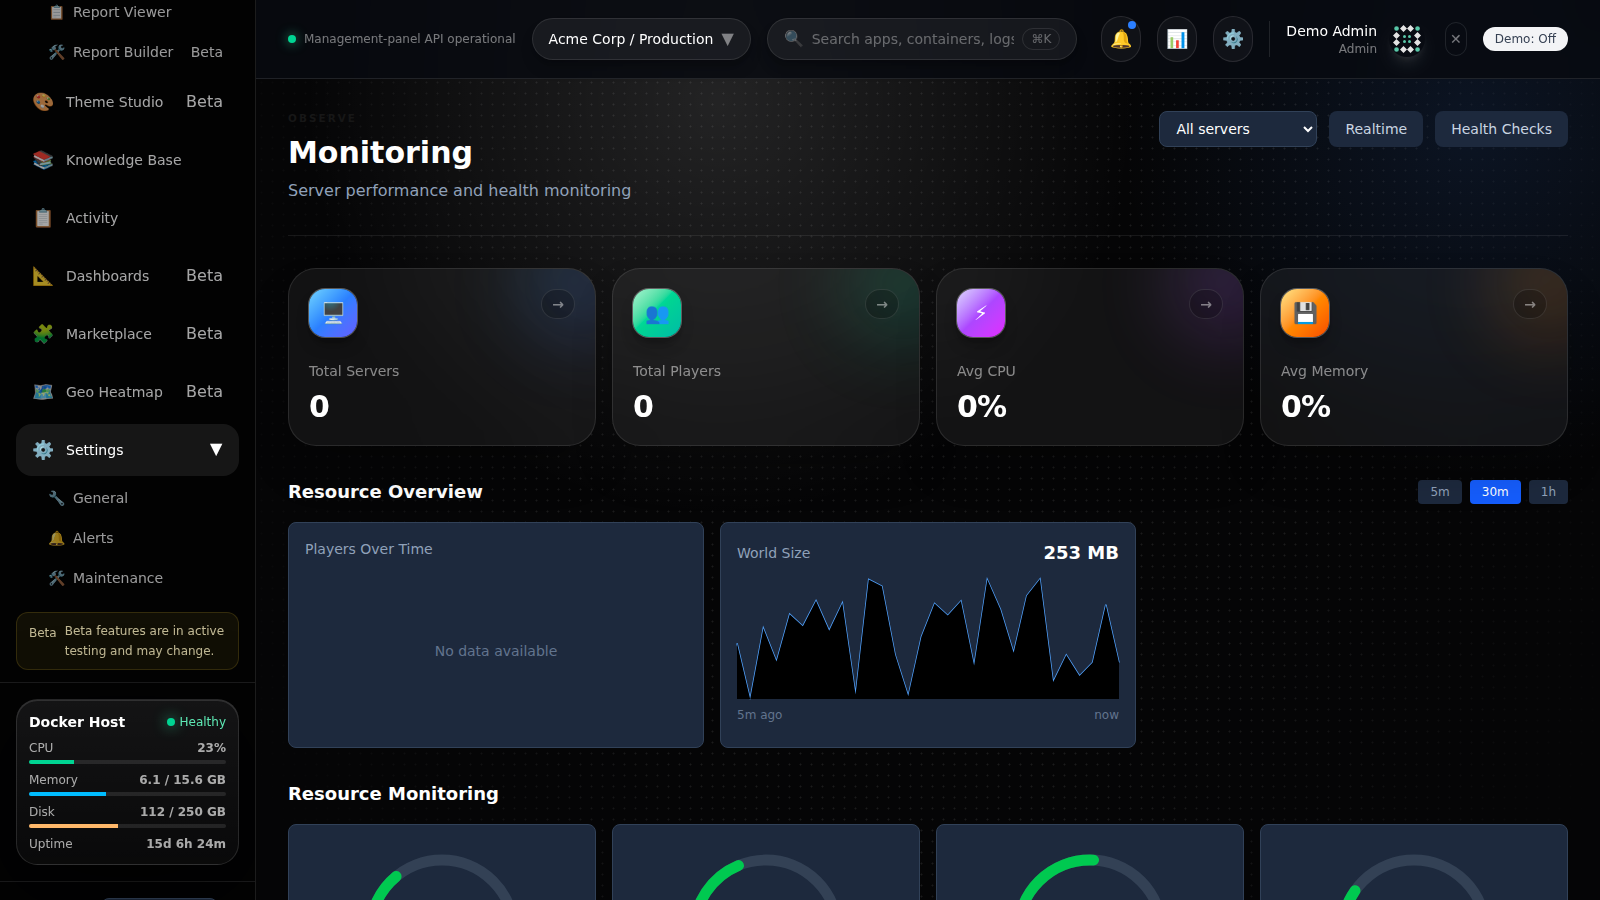
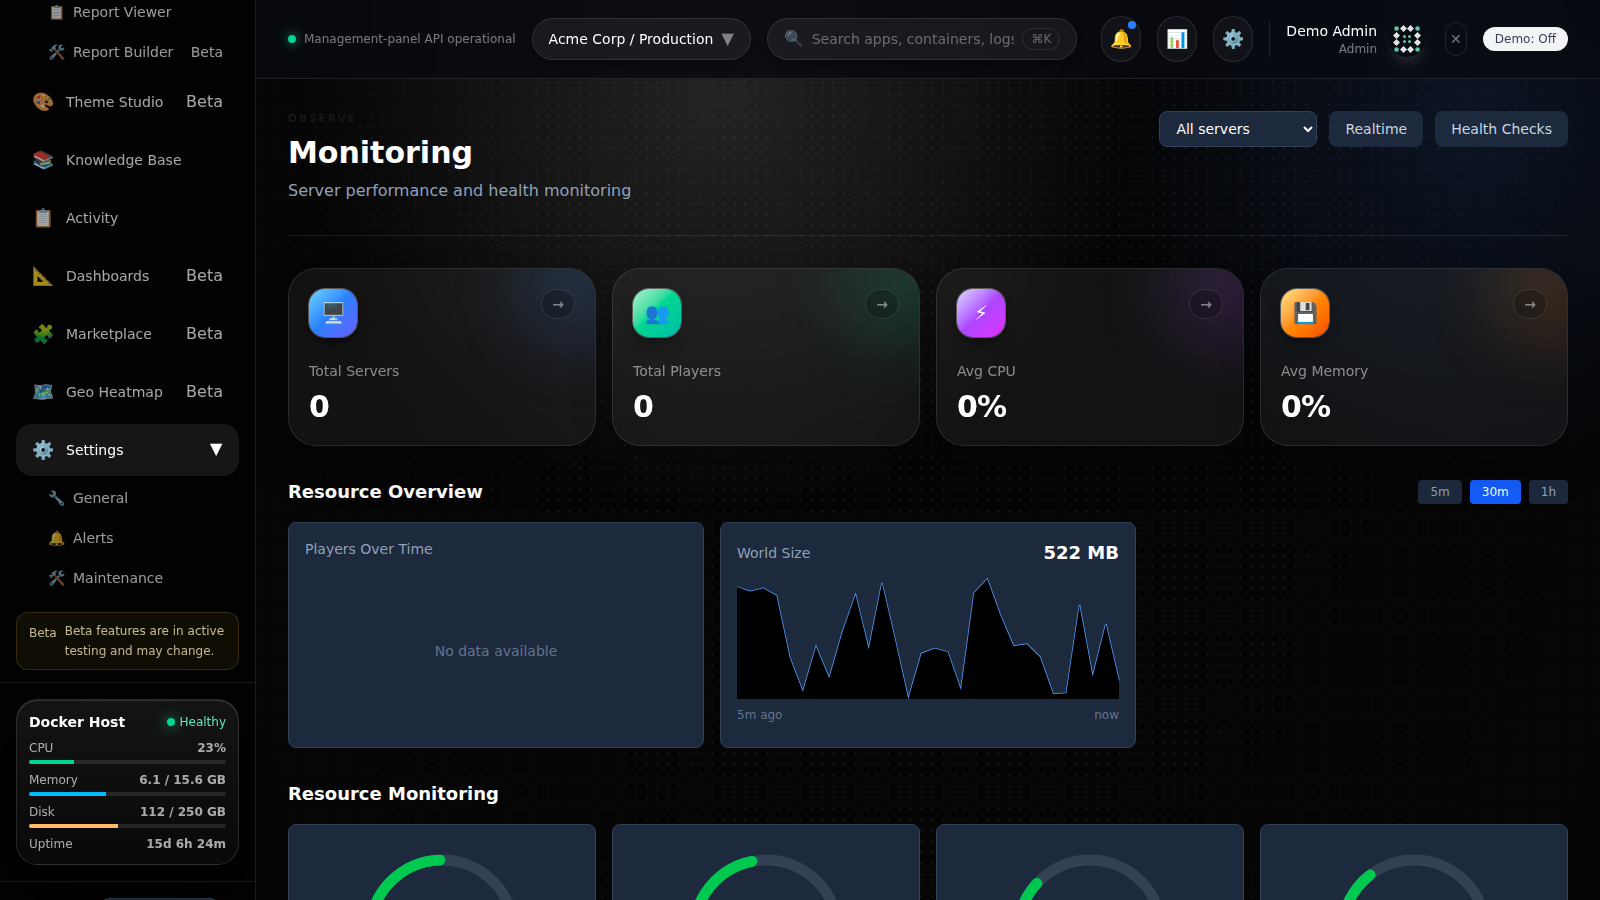
fun(welle-2): Visualisierung die es so nicht gibt (10 Features, neue … (#472)
* fun(welle-2): Visualisierung die es so nicht gibt (10 Features, neue Dateien only)

* docs(screenshots): refresh panel captures [skip ci]

* fixed merge issue

* docs(screenshots): refresh panel captures [skip ci]

---------

diff --git a/services/management-panel/src/fun/wave2.ts b/services/management-panel/src/fun/wave2.ts
@@ -1,0 +1,23 @@
+// Welle 2: Widget-Deskriptoren (reine Daten, kein JSX -> build-sicher).
+
+export interface FunWidget {
+  key: string;
+  title: string;
+  endpoint: string;
+  flag: string;
+}
+
+export const WAVE2_WIDGETS: FunWidget[] = [
+  { key: "sternenkarte", title: "Flotte als Sternenkarte", endpoint: "/api/fun/sternbild", flag: "fun.welle2.sternenkarte" },
+  { key: "waermebild", title: "Wärmebild-Modus", endpoint: "/api/fun/waermebild", flag: "fun.welle2.waermebild" },
+  { key: "aquarium", title: "Aquarium-Ansicht", endpoint: "/api/fun/aquarium", flag: "fun.welle2.aquarium" },
+  { key: "metroplan", title: "Metroplan der Deployments", endpoint: "/api/fun/metroplan", flag: "fun.welle2.metroplan" },
+  { key: "latenz-wetterkarte", title: "Wetterkarte der Latenz", endpoint: "/api/fun/latenz", flag: "fun.welle2.latenz" },
+  { key: "schallplatte", title: "Schallplatten-Ansicht", endpoint: "/api/fun/vinyl", flag: "fun.welle2.vinyl" },
+  { key: "morse-status", title: "Morsecode-Statuslinie", endpoint: "/api/fun/morse", flag: "fun.welle2.morse" },
+  { key: "fleet-wrapped", title: "Fleet Wrapped", endpoint: "/api/fun/wrapped", flag: "fun.welle2.wrapped" },
+];
+
+export const WAVE2_FLAGS: Record<string, boolean> = Object.fromEntries(
+  WAVE2_WIDGETS.map((w) => [w.flag, false]),
+);

diff --git a/services/orchestrator-agent/fun_wave2.py b/services/orchestrator-agent/fun_wave2.py
@@ -1,0 +1,94 @@
+"""Welle 2: Visualisierung, die es so nicht gibt (Features 11-20).
+
+Pure descriptor builders: frontend renders, backend only computes data.
+Optional aiohttp wiring at the bottom.
+"""
+
+import hashlib
+import math
+
+WAVE = 2
+FEATURES = [
+    "sternenkarte",
+    "waermebild",
+    "aquarium",
+    "metroplan",
+    "latenz-wetterkarte",
+    "pacman-health",
+    "schallplatte",
+    "lego-bauplan",
+    "morse-status",
+    "fleet-wrapped",
+]
+
+
+def sternbild(services: list, deps: list) -> dict:
+    """Feature 11: services as constellations."""
+    stars = [{"id": s, "x": (int(hashlib.sha256(s.encode()).hexdigest()[:4], 16) % 1000) / 10,
+              "y": (int(hashlib.sha256(s.encode()).hexdigest()[4:8], 16) % 1000) / 10}
+             for s in services]
+    return {"stars": stars, "lines": deps}
+
+
+def waermebild(cpu_by_service: dict) -> dict:
+    """Feature 12: thermal color ramp per service."""
+    def color(cpu: float) -> str:
+        stops = [(0, "blau"), (50, "gruen"), (75, "gelb"), (90, "rot")]
+        return next((c for t, c in reversed(stops) if cpu >= t), "blau")
+    return {s: color(c) for s, c in cpu_by_service.items()}
+
+
+def aquarium(services: list) -> dict:
+    """Feature 13: containers as fish."""
+    fish = []
+    for s in services:
+        state = "bauch-oben" if s.get("status") == "dead" else (
+            "schnell" if s.get("cpu", 0) > 80 else "schwimmt")
+        fish.append({"name": s.get("name"), "fisch": state})
+    return {"fische": fish}
+
+
+def metroplan(branches: dict, deploys: list) -> dict:
+    """Feature 14: branches as subway lines, deploys as stations."""
+    return {"linien": [{"name": b, "stationen": [d for d in deploys if d.get("branch") == b]}
+                       for b in branches]}
+
+
+def latenz_wetter(p95_by_service: dict) -> dict:
+    """Feature 15: p95 as high/low pressure zones."""
+    vals = list(p95_by_service.values()) or [0]
+    avg = sum(vals) / len(vals)
+    return {"gebiete": [
+        {"service": s, "druck": "tief" if v > avg * 1.5 else "hoch" if v < avg * 0.5 else "normal", "p95": v}
+        for s, v in p95_by_service.items()]}
+
+
+def schallplatte(metrics_30d: list) -> dict:
+    """Feature 17: 30-day metrics as vinyl grooves (time scrub descriptor)."""
+    return {"rillen": len(metrics_30d), "sync": True, "tage": 30}
+
+
+MORSE = {"ok": "--- -.-", "warn": ".-- .- .-. -.", "down": "-.. --- .-- -."}
+
+
+def morse_status(health: str) -> dict:
+    """Feature 19: fleet health as morse code."""
+    return {"klartext": health, "morse": MORSE.get(health, "... --- ...")}
+
+
+def fleet_wrapped(stats: dict) -> dict:
+    """Feature 20: year-in-review descriptor."""
+    top = max(stats.get("deploys_by_day", {"montag": 0}), key=lambda k: stats["deploys_by_day"][k]) \
+        if stats.get("deploys_by_day") else None
+    return {"schlimmster_tag": top, "deploys_gesamt": stats.get("deploys_total", 0),
+            "treuester_container": stats.get("longest_uptime_app")}
+
+
+def register_fun_wave2(app) -> None:
+    """Attach read-only routes to an aiohttp app (optional wiring)."""
+    from aiohttp import web
+
+    async def _morse(request: web.Request) -> web.Response:
+        return web.json_response(morse_status(request.rel_url.query.get("health", "ok")))
+
+    app.router.add_get("/api/fun/morse", _morse)

diff --git a/cli/ipilot/commands/fun_wave2.py b/cli/ipilot/commands/fun_wave2.py
@@ -1,0 +1,41 @@
+"""Welle-2 CLI: lokale Visualisierungs-Helfer (brauchen keine API)."""
+
+import typer
+
+app = typer.Typer(help="Welle 2: Sternenkarte, Aquarium, Morse & Co.")
+
+
+@app.command()
+def morse(health: str = "ok"):
+    """Flotten-Health als Morsecode."""
+    import sys
+
+    sys.path.insert(0, "services/orchestrator-agent")
+    from fun_wave2 import morse_status as _m
+
+    r = _m(health)
+    typer.echo(f"{r['klartext']}: {r['morse']}")
+
+
+@app.command()
+def aquarium():
+    """Demo: Aquarium-Ansicht aus Beispiel-Daten."""
+    import sys
+
+    sys.path.insert(0, "services/orchestrator-agent")
+    from fun_wave2 import aquarium as _a
+
+    demo = [{"name": "api", "status": "up", "cpu": 23}, {"name": "worker", "status": "up", "cpu": 91}]
+    for f in _a(demo)["fische"]:
+        typer.echo(f"{f['name']}: {f['fisch']}")
+
+
+@app.command()
+def wrapped(deploys: int = 0, treuester: str = "-"):
+    """Mini Fleet-Wrapped aus Kennzahlen."""
+    import sys
+
+    sys.path.insert(0, "services/orchestrator-agent")
+    from fun_wave2 import fleet_wrapped as _w
+
+    typer.echo(_w({"deploys_total": deploys, "longest_uptime_app": treuester}))
